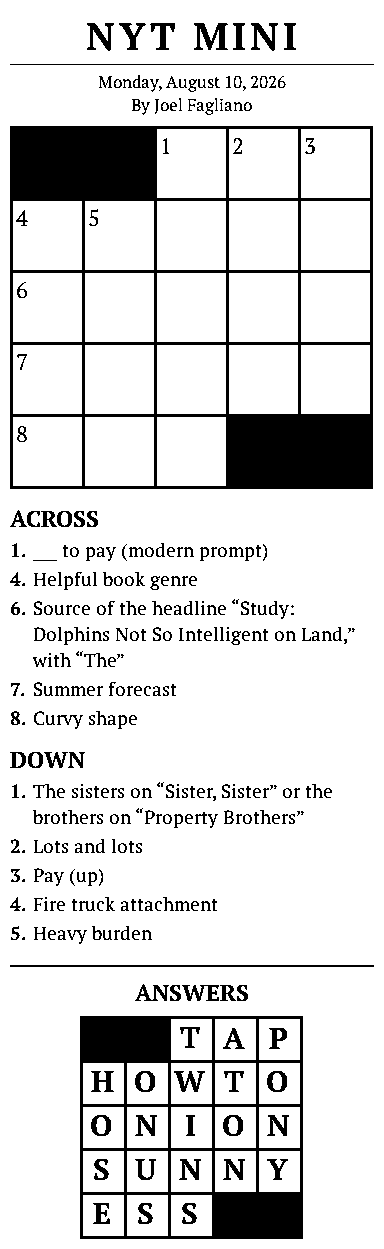
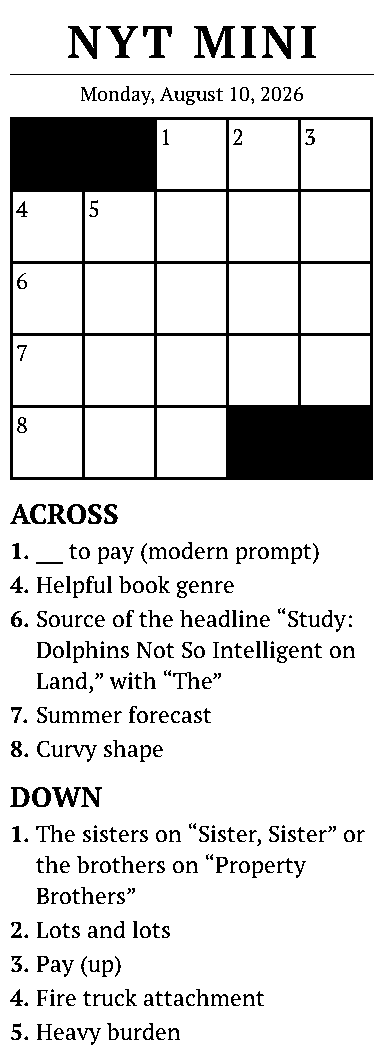
generate puzzles from alternate API, increase font sizes

diff --git a/puzzle.go b/puzzle.go
@@ -7,15 +7,21 @@ import (
 	"net/http"
 	"os"
 	"path/filepath"
+	"strconv"
 	"time"
 )
 
-const puzzleURL = "https://www.nytimes.com/svc/crosswords/v6/puzzle/mini/%s.json"
+// dates=1 trims the archive index the API otherwise bundles with every puzzle.
+const puzzleURL = "https://api.thewordfinder.com/crossword-solver/nyt-mini/%s?dates=1"
+
+// structureFrom is the earliest puzzle the API ships grid geometry for. Older
+// entries still carry clues and answers, but nothing that says where the
+// blocks go, so there is no grid to draw.
+const structureFrom = "2025-09-02"
 
 type Puzzle struct {
 	Date        time.Time
 	Constructor string
-	Copyright   string
 	Width       int
 	Height      int
 	Cells       []Cell
@@ -35,41 +41,50 @@ type Clue struct {
 }
 
 type apiResponse struct {
-	Body []struct {
+	PuzzleDate string  `json:"puzzle_date"`
+	Name       *string `json:"name"`
+	Simplified struct {
+		AcrossClues []apiClue `json:"acrossClues"`
+		DownClues   []apiClue `json:"downClues"`
+	} `json:"simplified"`
+	Structure struct {
+		Rows  int `json:"rows"`
+		Cols  int `json:"cols"`
 		Cells []struct {
-			Answer string `json:"answer"`
-			Label  string `json:"label"`
-			Type   int    `json:"type"`
+			Row      int    `json:"r"`
+			Col      int    `json:"c"`
+			Type     string `json:"type"`
+			Label    int    `json:"label"`
+			Solution string `json:"solution"`
 		} `json:"cells"`
-		ClueLists []struct {
-			Name  string `json:"name"`
-			Clues []int  `json:"clues"`
-		} `json:"clueLists"`
-		Clues []struct {
-			Direction string `json:"direction"`
-			Label     string `json:"label"`
-			Text      []struct {
-				Plain string `json:"plain"`
-			} `json:"text"`
-		} `json:"clues"`
-		Dimensions struct {
-			Height int `json:"height"`
-			Width  int `json:"width"`
-		} `json:"dimensions"`
-	} `json:"body"`
-	Constructors    []string `json:"constructors"`
-	Copyright       string   `json:"copyright"`
-	PublicationDate string   `json:"publicationDate"`
+	} `json:"structure"`
 }
 
-// NYT load-balances this endpoint across two backends and only one of them
-// serves anonymous callers, so an unauthenticated 403 is usually transient.
-const maxAttempts = 8
+type apiClue struct {
+	Number int    `json:"number"`
+	Clue   string `json:"clue"`
+	Answer string `json:"answer"`
+}
 
-func Fetch(date time.Time, cookie string) (*Puzzle, error) {
+func Fetch(date time.Time) (*Puzzle, error) {
 	day := date.Format("2006-01-02")
 	raw, err := cached(day, func() ([]byte, error) {
-		return get(fmt.Sprintf(puzzleURL, day), cookie, day)
+		raw, err := get(fmt.Sprintf(puzzleURL, day))
+		if err != nil {
+			return nil, err
+		}
+		// A date the API has no puzzle for still answers 200, with today's
+		// puzzle in the body. Catch that before it reaches the cache.
+		var probe struct {
+			PuzzleDate string `json:"puzzle_date"`
+		}
+		if err := json.Unmarshal(raw, &probe); err != nil {
+			return nil, fmt.Errorf("decoding puzzle: %w", err)
+		}
+		if probe.PuzzleDate != day {
+			return nil, fmt.Errorf("no mini puzzle published for %s (the API answered with %s instead)", day, probe.PuzzleDate)
+		}
+		return raw, nil
 	})
 	if err != nil {
 		return nil, err
@@ -79,63 +94,65 @@ func Fetch(date time.Time, cookie string) (*Puzzle, error) {
 	if err := json.Unmarshal(raw, &api); err != nil {
 		return nil, fmt.Errorf("decoding puzzle: %w", err)
 	}
-	if len(api.Body) == 0 {
-		return nil, fmt.Errorf("puzzle for %s has no body", day)
+	if len(api.Structure.Cells) == 0 {
+		return nil, fmt.Errorf("the API has no grid layout for %s; only puzzles from %s onward can be drawn", day, structureFrom)
 	}
-	body := api.Body[0]
 
 	p := &Puzzle{
-		Date:      date,
-		Copyright: api.Copyright,
-		Width:     body.Dimensions.Width,
-		Height:    body.Dimensions.Height,
+		Date:   date,
+		Width:  api.Structure.Cols,
+		Height: api.Structure.Rows,
+		Cells:  make([]Cell, api.Structure.Rows*api.Structure.Cols),
 	}
-	if len(api.Constructors) > 0 {
-		p.Constructor = api.Constructors[0]
-		for _, c := range api.Constructors[1:] {
-			p.Constructor += ", " + c
-		}
-	}
-	if t, err := time.Parse("2006-01-02", api.PublicationDate); err == nil {
+	if t, err := time.Parse("2006-01-02", api.PuzzleDate); err == nil {
 		p.Date = t
 	}
-
-	for _, c := range body.Cells {
-		p.Cells = append(p.Cells, Cell{Block: c.Type == 0, Label: c.Label, Answer: c.Answer})
+	if api.Name != nil {
+		p.Constructor = *api.Name
 	}
 
-	for _, list := range body.ClueLists {
-		var out []Clue
-		for _, i := range list.Clues {
-			if i < 0 || i >= len(body.Clues) {
-				continue
-			}
-			c := body.Clues[i]
-			text := ""
-			if len(c.Text) > 0 {
-				text = c.Text[0].Plain
-			}
-			out = append(out, Clue{Label: c.Label, Text: text})
+	for _, c := range api.Structure.Cells {
+		i := c.Row*p.Width + c.Col
+		if i < 0 || i >= len(p.Cells) {
+			continue
 		}
-		switch list.Name {
-		case "Across":
-			p.Across = out
-		case "Down":
-			p.Down = out
+		cell := Cell{Block: c.Type == "block", Answer: c.Solution}
+		if c.Label > 0 {
+			cell.Label = strconv.Itoa(c.Label)
 		}
+		p.Cells[i] = cell
 	}
+
+	p.Across = convert(api.Simplified.AcrossClues)
+	p.Down = convert(api.Simplified.DownClues)
 	return p, nil
 }
 
+func (p *Puzzle) At(row, col int) Cell {
+	i := row*p.Width + col
+	if i < 0 || i >= len(p.Cells) {
+		return Cell{Block: true}
+	}
+	return p.Cells[i]
+}
+
+func convert(in []apiClue) []Clue {
+	out := make([]Clue, 0, len(in))
+	for _, c := range in {
+		out = append(out, Clue{Label: strconv.Itoa(c.Number), Text: c.Clue})
+	}
+	return out
+}
+
 // cached memoizes a day's JSON on disk. A published puzzle never changes, so
-// re-rendering it at another width costs nothing and spares the flaky endpoint.
+// re-rendering it at another width costs nothing.
 func cached(day string, fetch func() ([]byte, error)) ([]byte, error) {
 	dir, err := os.UserCacheDir()
 	if err != nil {
 		return fetch()
 	}
 	dir = filepath.Join(dir, "nyt-mini-thermal-printer")
-	path := filepath.Join(dir, "mini-"+day+".json")
+	path := filepath.Join(dir, "wordfinder-"+day+".json")
 
 	if raw, err := os.ReadFile(path); err == nil {
 		return raw, nil
@@ -150,44 +167,22 @@ func cached(day string, fetch func() ([]byte, error)) ([]byte, error) {
 	return raw, nil
 }
 
-func get(url, cookie, day string) ([]byte, error) {
-	client := &http.Client{Timeout: 20 * time.Second}
-	for attempt := 1; ; attempt++ {
-		req, err := http.NewRequest(http.MethodGet, url, nil)
-		if err != nil {
-			return nil, err
-		}
-		req.Header.Set("User-Agent", "nyt-mini-thermal-printer/1.0")
-		if cookie != "" {
-			req.Header.Set("Cookie", "NYT-S="+cookie)
-		}
-
-		resp, err := client.Do(req)
-		if err != nil {
-			return nil, err
-		}
-		body, readErr := io.ReadAll(io.LimitReader(resp.Body, 8<<20))
-		resp.Body.Close()
-
-		switch {
-		case resp.StatusCode == http.StatusOK:
-			return body, readErr
-		case resp.StatusCode == http.StatusNotFound:
-			return nil, fmt.Errorf("no mini puzzle published for %s", day)
-		case resp.StatusCode == http.StatusForbidden && attempt >= maxAttempts:
-			return nil, fmt.Errorf("nytimes.com refused %s after %d attempts; today's mini is free but older ones are not, so pass -cookie or set NYT_S to your NYT-S cookie value", day, attempt)
-		case resp.StatusCode == http.StatusForbidden:
-		default:
-			return nil, fmt.Errorf("nytimes.com returned %s for %s", resp.Status, day)
-		}
-		time.Sleep(time.Duration(attempt) * 400 * time.Millisecond)
+func get(url string) ([]byte, error) {
+	req, err := http.NewRequest(http.MethodGet, url, nil)
+	if err != nil {
+		return nil, err
 	}
-}
+	req.Header.Set("User-Agent", "nyt-mini-thermal-printer/1.0")
+	req.Header.Set("Accept", "application/json")
 
-func (p *Puzzle) At(row, col int) Cell {
-	i := row*p.Width + col
-	if i < 0 || i >= len(p.Cells) {
-		return Cell{Block: true}
+	resp, err := (&http.Client{Timeout: 20 * time.Second}).Do(req)
+	if err != nil {
+		return nil, err
 	}
-	return p.Cells[i]
+	defer resp.Body.Close()
+
+	if resp.StatusCode != http.StatusOK {
+		return nil, fmt.Errorf("thewordfinder.com returned %s", resp.Status)
+	}
+	return io.ReadAll(io.LimitReader(resp.Body, 8<<20))
 }

diff --git a/render.go b/render.go
@@ -37,11 +37,11 @@ func Render(p *Puzzle, opt Options) image.Image {
 		c.img.Pix[i] = 0xff
 	}
 
-	title := face(serifBold, 38*s)
-	meta := face(serif, 17*s)
-	section := face(serifBold, 23*s)
-	clue := face(serif, 19*s)
-	clueBold := face(serifBold, 19*s)
+	title := face(serifBold, 46*s)
+	meta := face(serif, 20*s)
+	section := face(serifBold, 28*s)
+	clue := face(serif, 23*s)
+	clueBold := face(serifBold, 23*s)
 
 	c.y = c.pad
 	c.centeredTracked(title, "NYT MINI", round(4*s))
@@ -181,7 +181,7 @@ func (c *canvas) grid(p *Puzzle, maxWidth int, answers bool) {
 	oy := c.y
 
 	labels := face(serif, float64(cell)*0.31)
-	letters := face(serifBold, float64(cell)*0.68)
+	letters := face(serifBold, float64(cell)*0.72)
 
 	for row := 0; row < p.Height; row++ {
 		for col := 0; col < p.Width; col++ {

diff --git a/cmd/nyt-mini/main.go b/cmd/nyt-mini/main.go
@@ -23,7 +23,6 @@ func run() error {
 	width := flag.Int("width", 384, "output width in pixels")
 	out := flag.String("out", "", "output PNG path, or - for stdout (default: nyt-mini-YYYY-MM-DD.png)")
 	answers := flag.Bool("answers", false, "append the answer key")
-	cookie := flag.String("cookie", os.Getenv("NYT_S"), "NYT-S cookie value, required for dates other than today (env NYT_S)")
 	flag.Parse()
 
 	day, err := resolveDate(*date)
@@ -34,7 +33,7 @@ func run() error {
 		return fmt.Errorf("width must be at least 64 pixels")
 	}
 
-	puzzle, err := mini.Fetch(day, *cookie)
+	puzzle, err := mini.Fetch(day)
 	if err != nil {
 		return err
 	}

diff --git a/README.md b/README.md
@@ -2,6 +2,16 @@
 
 Renders the day's NYT Mini crossword as a 1-bit PNG that has been optimized for a thermal printer. It defaults to rendering to 384px wide by default for the "Cat Printer" which takes 58mm paper, but the output width can be customized for printers with higher DPIs.
 
+<p align="center">
+  <img src="nyt-mini-2026-08-10.png"
+       alt="Rendered NYT Mini for August 10, 2026: the masthead, date, a 5x5 grid with numbered squares, the across and down clues, and an answer grid"
+       width="384">
+</p>
+
+<p align="center">
+  <em>Output of <code>nyt-mini -date 2026-08-10</code>.</em>
+</p>
+
 ## Install
 
 ```
@@ -26,26 +36,33 @@ nyt-mini -out - | your-printer-tool
 | `-width` | `384` | output width in pixels; everything scales from it |
 | `-out` | `nyt-mini-<date>.png` | output path, or `-` for stdout |
 | `-answers` | off | append a filled answer grid |
-| `-cookie` | `$NYT_S` | NYT-S cookie value |
 
 ## Development
 
-### About the NYT endpoint
+### About the puzzle endpoint
 
-Puzzles come from `https://www.nytimes.com/svc/crosswords/v6/puzzle/mini/<date>.json`.
-
-Today's mini is free, but NYT load-balances that endpoint across two backends
-and only one serves anonymous callers, so a plain request returns 403 much of
-the time. The tool retries up to 8 times with backoff, which reliably gets
-through. Older dates are subscriber-only and always 403 without credentials —
-for those, pass your `NYT-S` cookie:
+Puzzles come from thewordfinder.com's API:
 
 ```
-NYT_S='...' nyt-mini -date 2026-08-01
+https://api.thewordfinder.com/crossword-solver/nyt-mini/<date>?dates=1
 ```
 
-Grab the value from DevTools → Application → Cookies on nytimes.com while
-logged in (the base64-looking string, no `NYT-S=` prefix).
+It needs no credentials and serves the archive as readily as today, so `-date`
+works for any past puzzle. The response carries both the clue list and the grid
+geometry (which squares are blocks, their numbering, and the solution letters).
+`dates=1` trims an archive index the API otherwise bundles into every response.
+
+Two quirks worth knowing, both handled in `puzzle.go`:
+
+- **Grid geometry only goes back to 2025-09-02.** Older entries still have
+  clues and answers, but nothing saying where the blocks go, so there is no
+  grid to draw. Those dates fail with an explicit error.
+- **Unknown dates return HTTP 200 with today's puzzle**, rather than a 404. The
+  fetch compares `puzzle_date` against what was asked for and rejects a
+  mismatch before it can reach the cache.
+
+The API exposes no constructor name, so the byline the NYT feed used to supply
+is gone; the layout just omits it.
 
 Fetched JSON is cached under `~/Library/Caches/nyt-mini-thermal-printer` (or
 `$XDG_CACHE_HOME`), so re-rendering a day at a different width never re-hits the
